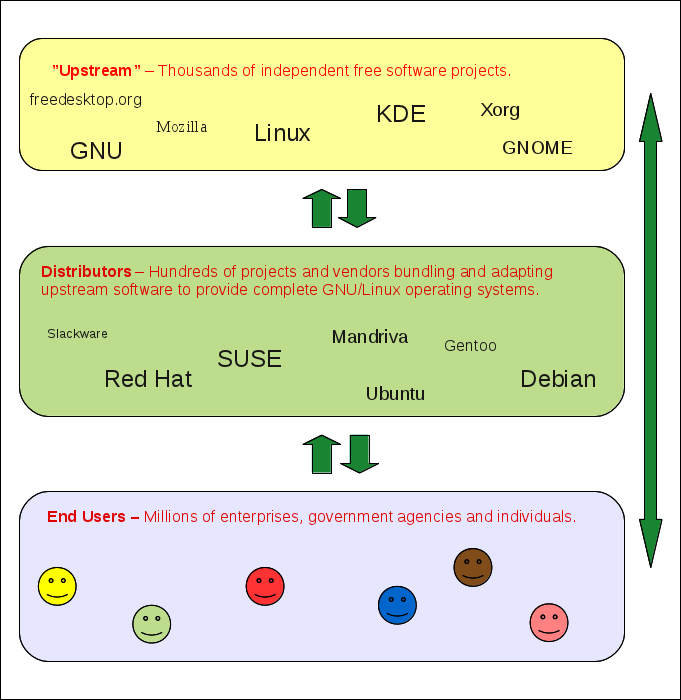
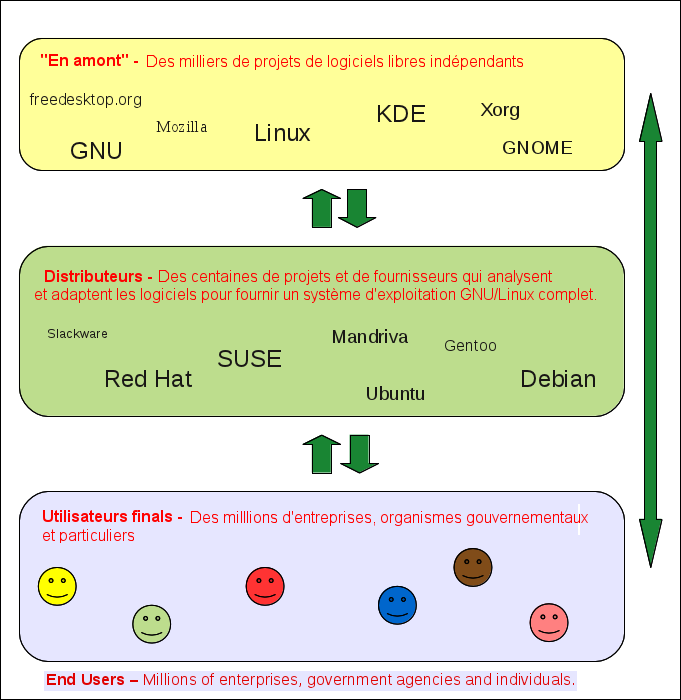
fin de trad history.md avec le schema

diff --git a/history.md b/history.md
@@ -6,7 +6,7 @@ permalink: histoire
 
 # Appendix D: Histoire et contexte
 
-Le but de ce chapitre est de donner aux lecteurs un aperçu et une connaissance de base de l'histoire et de l'écosystème de GNU/Linux et des logiciels libres/open source en général..
+Le but de ce chapitre est de donner aux lecteurs un aperçu et une connaissance basique de l'histoire et de l'écosystème de GNU/Linux et des logiciels libres/open source en général..
 
 ## D.1 Code source vs Code machine binaire
 
@@ -28,7 +28,7 @@ Sans accès au code source et sans autorisation de le modifier, ni vous en tant 
 
 ## D.2 Richard Stallman, GNU et le logiciel libre
 
-En 1984 et 1985 respectivement, le programmeur système Richard M. Stallman (RMS), de plus en plus frustré par les restrictions techniques et sociales imposées par les logiciels propriétaires, créa le projet [GNU](http://www.gnu.org/) (GNU's Not Unix) afin de créer un système d'exploitation libre semblable à Unix et la [Free Software Foundation (FSF)] (http://www.fsf.org) une fondation visant à promouvoir les logiciels libres.
+En 1984 et 1985 respectivement, le programmeur système Richard M. Stallman (RMS), de plus en plus frustré par les restrictions techniques et sociales imposées par les logiciels propriétaires, créa le projet [GNU](http://www.gnu.org/) (GNU's Not Unix) afin de créer un système d'exploitation libre semblable à Unix et la [Free Software Foundation (FSF)](http://www.fsf.org) une fondation visant à promouvoir les logiciels libres.
 
 <table style="text-align: left; width: 100%;" border="0" cellpadding="2" cellspacing="2">
 	<tbody>
@@ -62,7 +62,7 @@ La licence de logiciel libre de loin la plus utilisée est la GNU General Public
 
 Vers la fin des années 1980, le projet GNU avait créé un [système d'exploitation Unix libre presque complet](http://directory.fsf.org/GNU/), mais le noyau causait des problèmes.
 
-En 1991, indépendamment du projet GNU, Linus Torvalds, alors étudiant finlandais de 22 ans, a décidé d'écrire un noyau Unix qu'il pourrait utiliser à la maison. Plus tard dans l'année, il annonça la première sortie sur un groupe de discussion, utilisant ces mots désormais immortels : *"...I'm doing a (free) operating system (just a hobby, won't be big and professional like gnu)..."*.
+En 1991, indépendamment du projet GNU, Linus Torvalds, alors étudiant finlandais de 22 ans, a décidé d'écrire un noyau Unix qu'il pourrait utiliser à la maison. Plus tard dans l'année, il annonça la première sortie sur un groupe de discussion, utilisant ces mots désormais immortels : *"...I'm doing a (free) operating system (just a hobby, won't be big and professional like gnu)..."* (Je suis en train de faire un système d'exploitation (libre) (seulement un hobby, ne sera pas grand et professionnel comme gnu).
 
 <table style="text-align: left; width: 100%;" border="0" cellpadding="2" cellspacing="2">
 	<tbody>
@@ -77,7 +77,7 @@ En 1991, indépendamment du projet GNU, Linus Torvalds, alors étudiant finlanda
 
 Le noyau s'appelait Linux et bientôt il a été distribué sous licence GNU GPL, et les gens ont commencé à le combiner avec les outils GNU. Un système d'exploitation entièrement fonctionnel et libre de type Unix, composé de GNU et de Linux, était une réalité !
 
-Aujourd'hui, Linus Torvalds vit aux Etats-Unis et continue à diriger le développement du noyau Linux - mais il n'est plus seul, aujourd'hui plus d'un millier de développeurs contribuent au code du noyau chaque année - certains d'entre eux sont des volontaires qui contribuent pendant leur temps libre, tandis que d'autres sont employés par de grandes entreprises, telles que IBM, Intel, Novell et Red Hat.
+Actuellement, Linus Torvalds vit aux Etats-Unis et continue à diriger le développement du noyau Linux - mais il n'est plus seul, aujourd'hui plus d'un millier de développeurs contribuent au code du noyau chaque année - certains d'entre eux sont des volontaires qui contribuent pendant leur temps libre, tandis que d'autres sont employés par de grandes entreprises, telles que IBM, Intel, Novell et Red Hat.
 
 ## D.4 Open Source
 
@@ -85,15 +85,15 @@ Le terme [open source](http://opensource.org/) a été créé en 1998, par un gr
 
 Les licences de logiciels reconnues par la Free Software Foundation et l'Open Source Initiative sont presque toutes identiques, donc il y a très peu de différence entre l'open source et le logiciel libre dans la pratique - les différences sont presque exclusivement sur un plan philosophique et rhétorique. Pour combler le fossé entre les deux camps, le terme "FOSS" (Free and Open Source Software) est souvent utilisé.
 
-## D.5 The History of openSUSE
+## D.5 L'histoire d'openSUSE
 
-SUSE was founded on September 2, 1992 in Germany, under the name Gesellschaft f&uuml;r Software- und Systementwicklung mbH (S.u.S.E. GmbH), meaning: "Software and System Development, Inc.". The first GNU/Linux distribution (S.u.S.E. Linux 1.0) was released in 1994 - making SUSE one of the oldest existing GNU/Linux distributions. Originally it was merely a German version of an American distribution called Slackware, but later SUSE has become one of the leading distributions. In 2003 SUSE was acquired by Novell.
+SUSE a été fondée le 2 septembre 1992 en Allemagne sous le nom de Gesellschaft f&uuml;r Software- und Systementwicklung mbH (S.u.S.E. GmbH) : "Développement de logiciels et de systèmes, Inc.". La première distribution GNU/Linux (S.u.S.E. Linux 1.0) est sortie en 1994, faisant de SUSE l'une des plus anciennes distributions GNU/Linux existantes. A l'origine, il s'agissait simplement d'une version allemande d'une distribution américaine appelée Slackware, mais plus tard, SUSE est devenu l'une des principales distributions. En 2003, SUSE a été racheté par Novell.
 
-In 2005 the openSUSE project was started with the goal of opening up development and involve the community more.
+En 2005, le projet openSUSE a été lancé dans le but d'ouvrir le développement et d'impliquer davantage la communauté.
 
-In 2010 Novell was acquired by Attachmate. The deal was finalized in April 2011, and one of the first actions of Attachmate was to split SUSE into a separate business unit independant of Novell, and move SUSE headquarters back to Nuremberg, Germany. In 2014 Micro Focus merged with Attachmate, but this did not affect SUSE nor the openSUSE Project.
+En 2010, Novell a été racheté par Attachmate. L'accord a été finalisé en avril 2011, et l'une des premières actions d'Attachmate a été de scinder SUSE en une autre entité indépendante de Novell et de transférer son siège à Nuremberg, en Allemagne. En 2014, Micro Focus a fusionné avec Attachmate, mais cela n'a pas affecté SUSE ni le projet openSUSE.
 
-In 2014 the development branch openSUSE Factory was stabilized enough to become a usable rolling relese distribution, called openSUSE Tumbleweed. openSUSE Tumbleweed forms the base for SUSE Linux Enterprise Server and Desktop (SLES and SLED). This again lead to changes in the stable openSUSE releases and the creation of openSUSE Leap in 2015, which uses SUSE Linux Enterprise for the core system, and has a form of long term support with major yearly service packs and major releases only happening every 3-4 years.
+En 2014, la branche de développement openSUSE Factory a été suffisamment stabilisée pour devenir une distribution openSUSE Tumbleweed. openSUSE Tumbleweed constitue la base de SUSE Linux Enterprise Server and Desktop (SLES et SLED). Cela a de nouveau conduit à des changements dans les versions stables d'openSUSE et à la création d'openSUSE Leap en 2015, qui utilise SUSE Linux Enterprise pour le coeur du système, et a une forme de support à long terme avec de grands services packs annuels et des versions majeures ne se produisant que tous les 3-4 ans.
 
 <table style="text-align: left; width: 100%;" border="0" cellpadding="2" cellspacing="2">
 <tbody>
@@ -107,19 +107,19 @@ In 2014 the development branch openSUSE Factory was stabilized enough to become 
 		<td style="width: 25%"><div style="text-align: center;"><img style="width: 150px; height: 150px;" alt="geeko" src="{{ site.baseurl | append: '/images/pics/opensuse.jpg' | replace: '//', '/' }}" /></div></td>
 	</tr>
       	<tr>
-		<td class="image-caption">The GNU project mascot</td>
-		<td class="image-caption">The official mascot of Linux - the penguin Tux</td>
-		<td class="image-caption">The KDE mascot - the dragon Konqui</td>
-		<td class="image-caption">The SUSE mascot - the chameleon named Geeko</td>
+		<td class="image-caption">La mascotte du projet GNU</td>
+		<td class="image-caption">La mascotte officielle de Linux - le pingouin Tux</td>
+		<td class="image-caption">La mascotte de KDE - le dragon Konqui</td>
+		<td class="image-caption">La mascotte de SUSE - le caméléon nommé Geeko</td>
 	</tr>
 </tbody>
 </table>
 
-## D.6 The GNU/Linux Ecosystem
+## D.6 L'écosystème GNU/Linux
 
 ### D.6.1 Distributions
 
-When the Linux kernel and the GNU tools and other free software components from "upstream" are bundled together to form a complete contemporary operating system, it's called a  GNU/Linux *distribution*. Many distributions exist targetting different types of users and use cases - enterprises, home users, servers, desktops, multimedia centers etc. Some are commercial, others are fully based on the efforts of community volunteers. Besides bundling the software, distributors usually also integrate it, brand it, patch it, provide additional tools developed in-house and so forth. The existence of multiple distributions is only possible because the software components are free software of course.
+Quand le noyau Linux et les outils GNU et d'autres composants de logiciels libres "en amont" sont regroupés pour former un système d'exploitation contemporain complet, cela s'appelle une *distribution* GNU/Linux. Il existe de nombreuses distributions ciblant différents types d'utilisateurs et de cas d'utilisation - entreprises, particuliers, serveurs, ordinateurs de bureau, centres multimédia, etc. Certaines sont commerciales, d'autres reposent entièrement sur les efforts de bénévoles de la communauté. En plus d'empaqueter le logiciel, les distributeurs généralement l'intègrent, le personnalisent, le modifient, le mettent à jour, fournissent des outils supplémentaires développés en interne, etc. L'existence de distributions multiples n'est possible que parce que les composants logiciels sont bien sûr des logiciels libres.
 
 <table style="text-align: left; width: 100%;" border="0" cellpadding="2" cellspacing="2">
 	<tbody>
@@ -128,30 +128,30 @@ When the Linux kernel and the GNU tools and other free software components from 
     </td>			
 	</tr>
   <tr>
-	  <td class="image-caption">This figure shows the ecosystem of upstream projects, distributors and end users.</td>
+	  <td class="image-caption">Cette figure montre l'écosystème des projets en amont, des distributeurs et des utilisateurs finaux.</td>
 	</tr>
 </tbody>
 </table>
 
-### D.6.2 Who Develops Free Software and Why?
+### D.6.2 Qui développe des logiciels libres et pourquoi ?
 
-Many developers are employed by large companies such as IBM, Novell, Red Hat, Google, Mozilla Foundation, KDAB, Intel, AMD, Canonical, Oracle etc. These companies usually have a business model of selling services around free software or selling hardware with free software installed on it. By using free software companies can share the development costs with others.
+De nombreux développeurs sont employés par de grandes entreprises telles que IBM, Novell, Red Hat, Google, Mozilla Foundation, KDAB, Intel, AMD, Canonical, Oracle etc.  Ces entreprises ont généralement un modèle commercial de vente de services autour de logiciels libres ou de vente de matériel avec des logiciels libres installés dessus. En utilisant des logiciels libres, les entreprises peuvent partager les coûts de développement avec d'autres.
 
-Also many people are paid to develop free software in other ways, via university work, government sponsorships, donations, students can be paid via the [Google Summer of Code](http://code.google.com/soc) project, etc.
+De plus, de nombreuses personnes sont payées pour développer des logiciels libres par d'autres moyens, via le travail universitaire, les parrainages gouvernementaux, les dons, les étudiants peuvent être payés via le projet[Google Summer of Code] (http://code.google.com/soc), etc.
 
-However there are also many, many people working on free software in their spare time for nothing. They can have many different motivations.
+Cependant, il y a aussi beaucoup, beaucoup de gens qui travaillent sur des logiciels libres pendant leur temps libre pour rien. Ils peuvent avoir de nombreuses motivations différentes.
 
-- They may need a feature or suffer a bug ("scratch your own itch").
-- It builds their skills and network and creates job opportunities.
-- Programming is fun and challenging.
-- There's a lot of recognition and respect to be gained.
-- You can work on projects of you own choosing, unlike at your day-job.
-- They may think software freedom in itself is important enough to work for.
-- They'll take part in an exciting worldwide community.
+- Ils peuvent avoir besoin d'une fonctionnalité ou souffrir d'un bug ("grattez là où ça vous démange").
+- Il renforce leurs compétences et leur réseau et crée des opportunités d'emploi.
+- La programmation est amusante et stimulante.
+- Il y a beaucoup de reconnaissance et de respect à gagner.
+- Vous pouvez travailler sur des projets de votre choix, contrairement à votre travail quotidien.
+- Ils peuvent penser que la liberté du logiciel en soi est assez importante pour travailler.
+- Ils prendront part à une communauté mondiale passionnante.
 - Etc.
 
-### D.6.3 Who is Using GNU/Linux?
+### D.6.3 Qui utilise GNU/Linux ?
 
-Many people still perceive GNU/Linux as a small hobbyist operating system - and the marketshare on standard desktop PCs is quite small of course. Nevertheless a marketshare of about one percent, still adds up to millions and millions of people worldwide. No truly reliable measure of the marketshare or total number of users is possible, for something which is usually freely redistributable.
+Beaucoup de gens perçoivent encore GNU/Linux comme un petit système d'exploitation amateur - et la part de marché sur les PC de bureau standard est bien sûr assez faible. Néanmoins, une part de marché d'environ un pour cent représente encore des millions et des millions de personnes dans le monde. Aucune mesure vraiment fiable de la part de marché ou du nombre total d'utilisateurs n'est possible, pour quelque chose qui est généralement librement redistribuable.
 
-However GNU/Linux is very widespread in other areas. A very large share of web servers and other servers run GNU/Linux. Facebook, Google and Yahoo build their entire infrastructures on GNU/Linux. GNU/Linux has been used everywhere from Antarctica to NASA using it in outer space. GNU/Linux is the preferred operating system for most of the world's [super computers](http://www.top500.org/stats). And GNU/Linux is used [embedded in devices](http://linuxdevices.com/) where people often don't even know it's there, such as mobile phones, TVs, e-book-readers, PDAs, routers, hard disk recorders, NAS devices, and more.
+Cependant, GNU/Linux est très répandu dans d'autres domaines. Une très grande partie des serveurs web et autres serveurs utilisent GNU/Linux. Facebook, Google et Yahoo construisent toutes leurs infrastructures sur GNU/Linux. GNU/Linux a été utilisé partout, de l'Antarctique à la NASA en passant par l'espace. GNU/Linux est le système d'exploitation préféré pour la plupart des [super ordinateurs](http://www.top500.org/stats). Et GNU/Linux est utilisé [intégré dans des périphériques](http://linuxdevices.com/) où les gens ne savent souvent même pas qu'il est là, comme les téléphones mobiles, téléviseurs, lecteurs de livres électroniques, PDA, routeurs, enregistreurs de disque dur, périphériques NAS, et plus.
